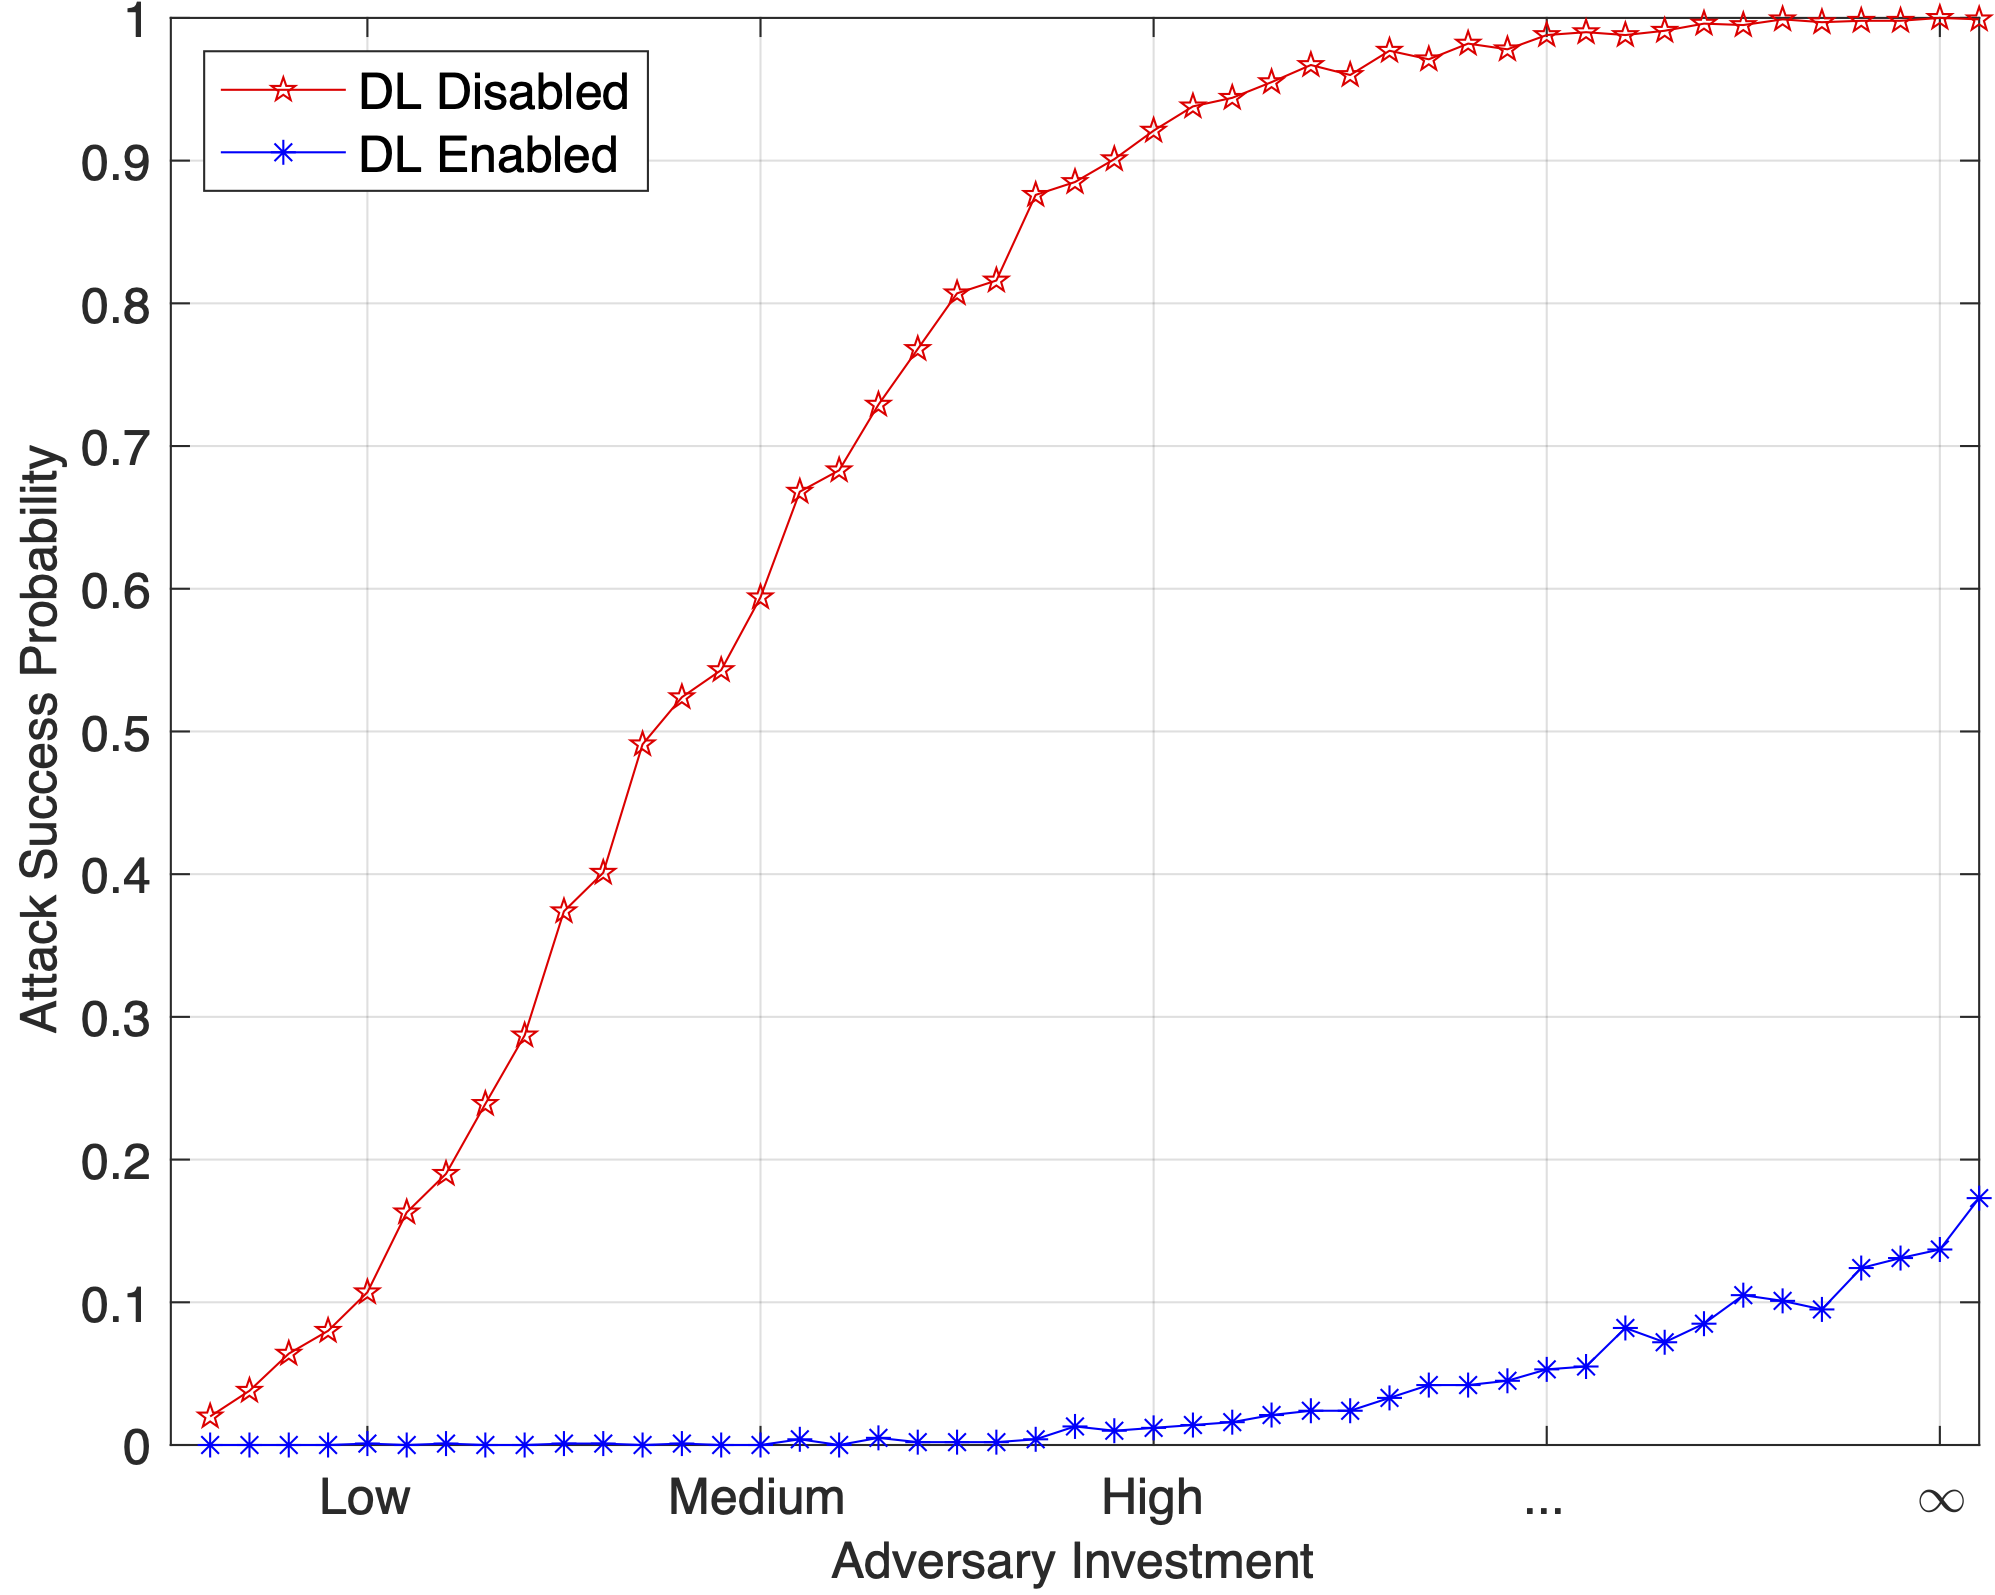
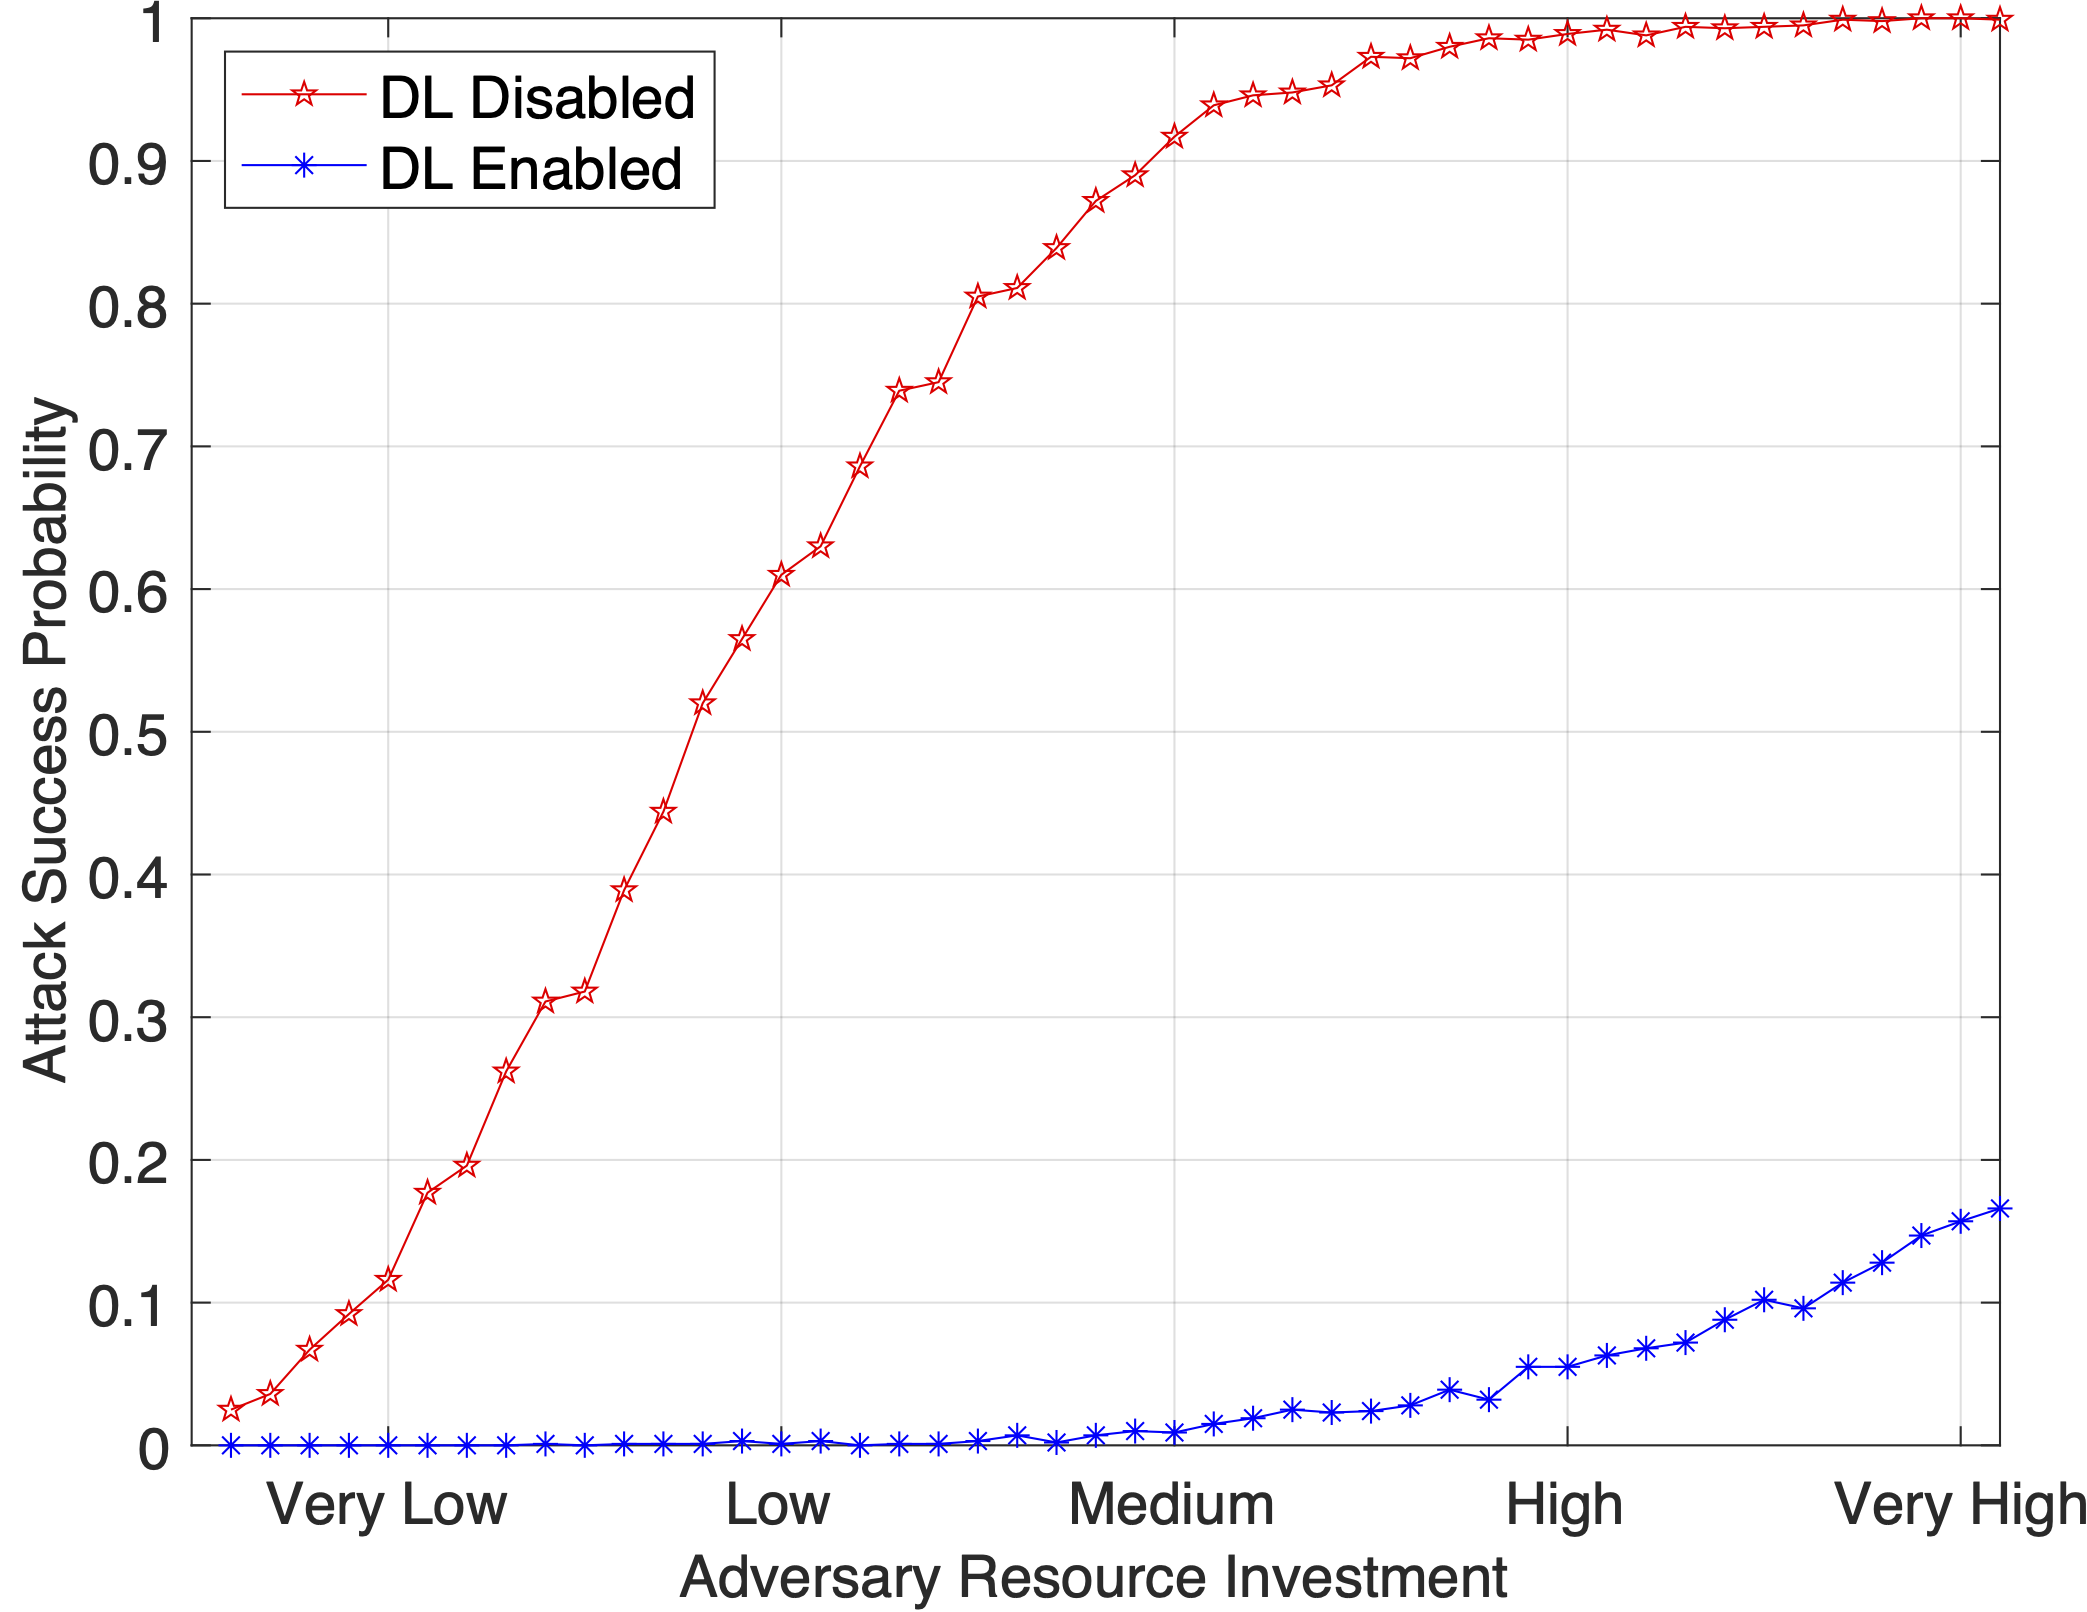
minor update

diff --git a/code/matlab-plot/DLplot.m b/code/matlab-plot/DLplot.m
@@ -17,7 +17,7 @@ plot(1:46,R(1,:),'r-p',1:46,R(2,:),'b-*')
 legend(...
     'DL Disabled',...
     'DL Enabled',...
-    'FontSize',12, 'Location', 'northwest')
+    'FontSize',14, 'Location', 'northwest')
 grid on;
 
 xlim([0 46])
@@ -26,9 +26,9 @@ groupCenters = @(nGroups,nMembers,interGroupSpace) ...
 %x1CenterTicks = groupCenters(numel(1:5), size(R,2), 1);
 %set(ax,'XTick',x1CenterTicks,'XTickLabels',{'10^1','10^2','10^3','10^4','10^5','10^6','...','\infty'},'FontSize',12)
 x1CenterTicks = groupCenters(numel(1:9), size(R,2), 1);
-set(ax,'XTick',x1CenterTicks,'XTickLabels',{'Low','Medium','High','...','\infty'},'FontSize',12)
-xlabel('Adversary Investment','FontSize',12);
-ylabel('Attack Success Probability','FontSize',12);
+set(ax,'XTick',x1CenterTicks,'XTickLabels',{'Very Low','Low','Medium','High','Very High'},'FontSize',14)
+xlabel('Adversary Resource Investment','FontSize',14);
+ylabel('Attack Success Probability','FontSize',14);
 
 
 function R = successrate(step,m,T,trials,lambda1,lambda2)
